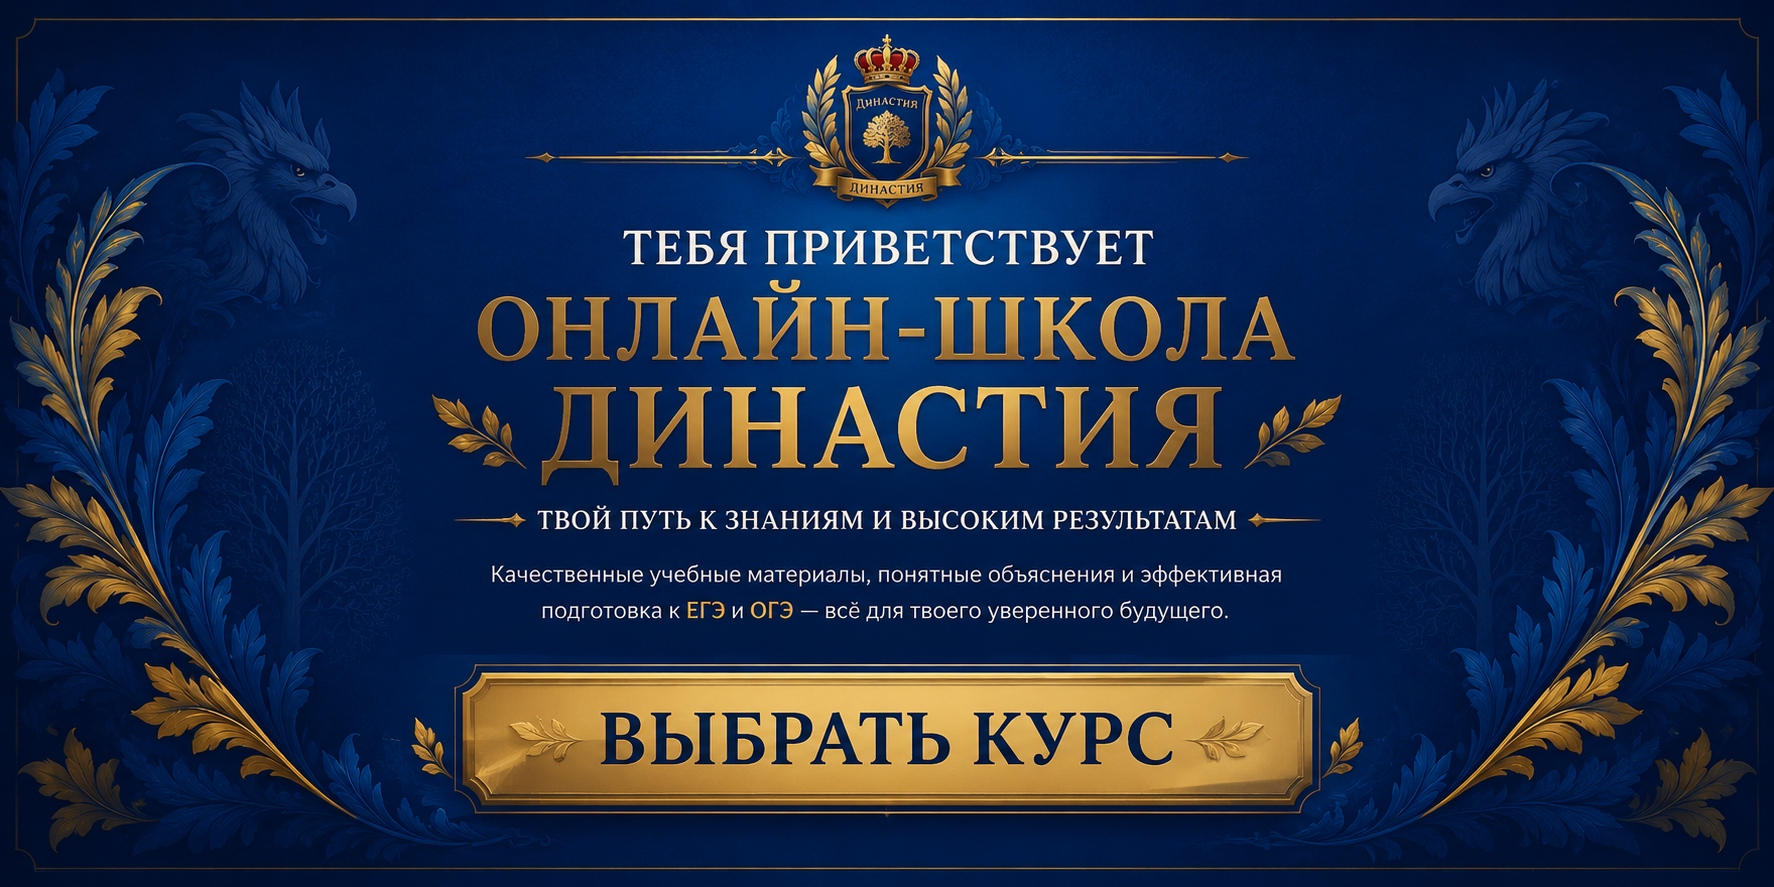
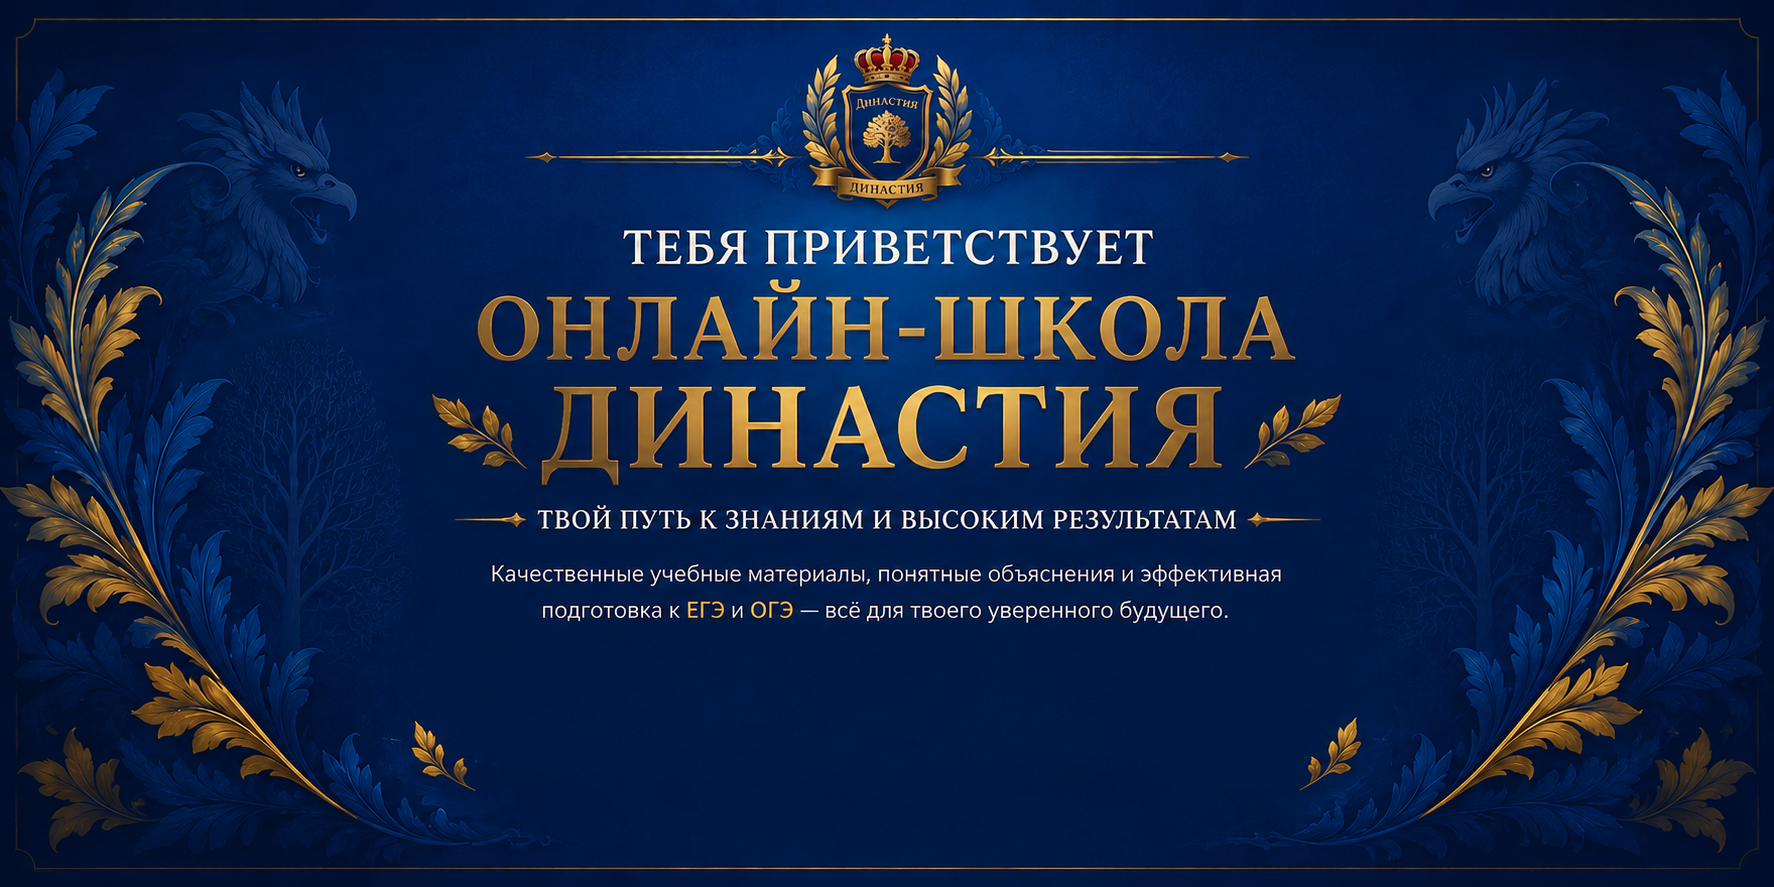
feat: Complete all tasks - Supabase Storage, chat buttons, animations, stats, mobile responsive

diff --git a/client/src/pages/HomePage.jsx b/client/src/pages/HomePage.jsx
@@ -99,30 +99,22 @@ export default function HomePage() {
         authInitialMode={authModalMode}
       />
 
-      <section className="relative w-full min-h-[50vh] overflow-hidden bg-primary-dark sm:min-h-[60vh] md:min-h-[70vh]">
-        <div
-          className="absolute inset-0 bg-[url('/hero-banner-royal.png')] bg-contain bg-center bg-no-repeat md:hidden"
-          role="img"
-          aria-label="Онлайн-школа Династия — подготовка к ЕГЭ и ОГЭ"
-        />
-        <img
-          src="/hero-banner-royal.png"
-          alt="Онлайн-школа Династия — подготовка к ЕГЭ и ОГЭ"
-          className="absolute inset-0 hidden h-full w-full max-w-full object-cover object-top md:block md:object-center"
-        />
-        <div className="relative z-10 flex min-h-[50vh] flex-col items-center justify-end px-3 pb-[4.5rem] pt-8 sm:min-h-[60vh] sm:px-4 sm:pb-20 md:hidden">
-          <h1 className="sr-only">Династия — подготовка к ЕГЭ и ОГЭ</h1>
-        </div>
-        <a
-          href="#catalog"
-          className="pointer-events-auto absolute bottom-[2%] left-1/2 z-40 w-[min(92vw,1000px)] -translate-x-1/2 translate-y-2 cursor-pointer drop-shadow-2xl transition-all duration-300 hover:scale-105 hover:brightness-110 sm:bottom-[1.2%] sm:w-[min(86vw,1090px)] sm:translate-y-[1.4rem] md:w-[min(86vw,1190px)] lg:w-[min(88vw,1270px)] xl:w-[min(88vw,1350px)]"
-        >
+      <section className="relative w-full overflow-hidden">
+        <div className="relative min-h-[50vh] sm:min-h-[60vh] md:min-h-[70vh] lg:min-h-[80vh]">
           <img
-            src="/gold-button.png"
-            alt="Выбрать курс"
-            className="block h-auto max-h-14 w-full max-w-full sm:max-h-none"
+            src="/hero-banner-royal.png"
+            alt="Онлайн-школа Династия — подготовка к ЕГЭ и ОГЭ"
+            className="absolute inset-0 h-full w-full object-cover object-center"
           />
-        </a>
+          <div className="relative z-10 flex min-h-[50vh] flex-col items-center justify-end px-3 pb-8 sm:min-h-[60vh] sm:pb-10 md:min-h-[70vh] md:pb-12 lg:min-h-[80vh]">
+            <a
+              href="#catalog"
+              className="inline-flex items-center justify-center rounded-full bg-gradient-to-r from-[#D4AF37] to-[#e8c85c] px-6 py-3 text-base font-bold uppercase tracking-wide text-[#244E77] shadow-lg shadow-amber-900/20 transition-all duration-300 hover:scale-105 hover:from-[#c9a431] hover:to-[#D4AF37] hover:shadow-xl md:px-10 md:py-4 md:text-xl"
+            >
+              Выбрать курс
+            </a>
+          </div>
+        </div>
       </section>
 
       <section className="bg-gradient-to-b from-primary-dark to-primary px-3 py-8 sm:px-4 sm:py-12 md:hidden">

diff --git a/client/src/components/Header.jsx b/client/src/components/Header.jsx
@@ -122,7 +122,7 @@ function ProfileButton({ onClick, ariaExpanded, ariaLabel = 'Профиль' }) 
       <img
         src="/btn-profile.png"
         alt="Профиль"
-        className="h-10 w-10 object-contain sm:h-12 sm:w-12"
+        className="h-10 w-10 object-contain sm:h-11 sm:w-11 md:h-12 md:w-12 lg:h-14 lg:w-14"
       />
     </button>
   );
@@ -191,7 +191,7 @@ export default function Header({ user, onAuthSuccess, forceOpenAuth = 0, authIni
             <img
               src="/logo-full.png"
               alt="Династия"
-              className="h-auto max-h-12 max-w-[120px] w-full object-contain sm:max-h-14 sm:max-w-[160px]"
+              className="h-auto w-full max-w-[120px] object-contain sm:max-w-[160px] md:max-w-[220px] lg:max-w-[280px]"
             />
           </Link>
 
@@ -295,7 +295,7 @@ export default function Header({ user, onAuthSuccess, forceOpenAuth = 0, authIni
                     <img
                       src="/btn-profile.png"
                       alt=""
-                      className="h-10 w-10 object-contain sm:h-12 sm:w-12"
+                      className="h-10 w-10 object-contain sm:h-11 sm:w-11"
                       aria-hidden
                     />
                     Войти